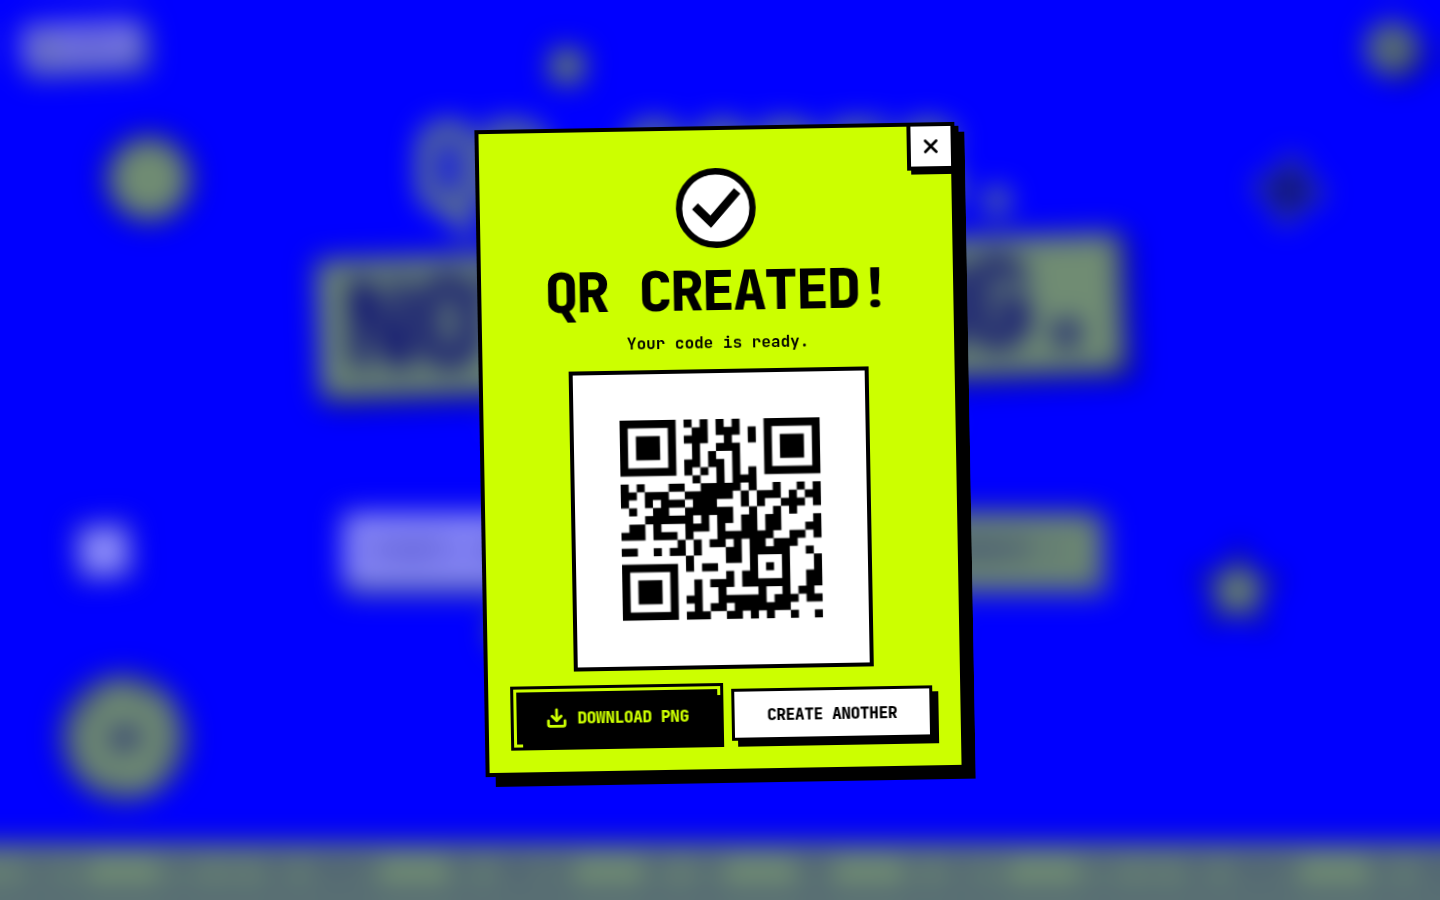
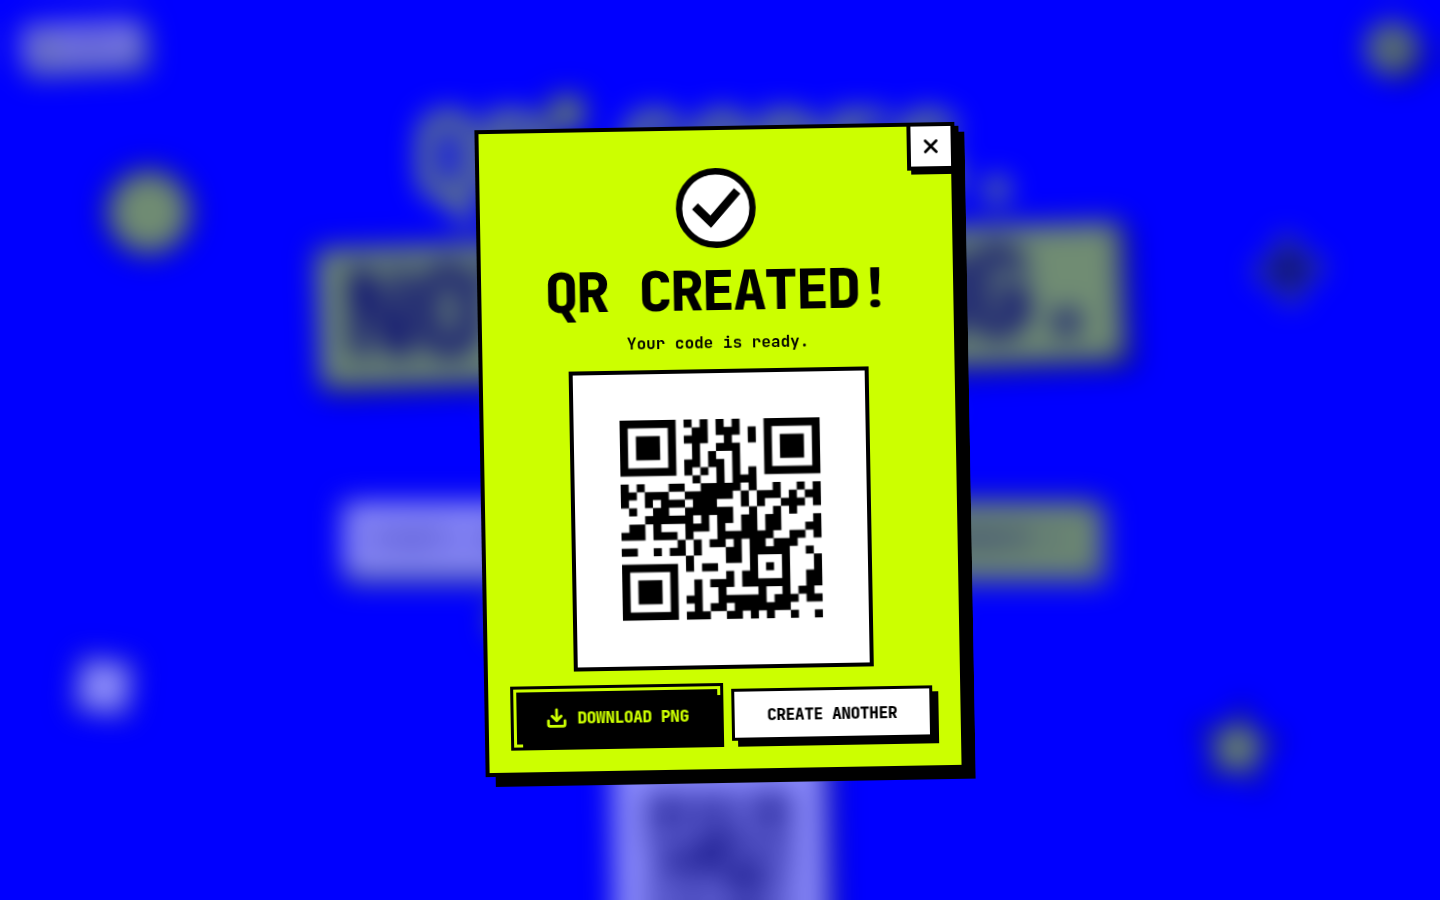
Add live QR previews on the page and in the settings drawer.
The preview redraws as you type and as style settings change, and the
gitignore now covers Vercel and env files.

diff --git a/src/App.jsx b/src/App.jsx
@@ -9,6 +9,7 @@ import SettingsDrawer from './components/SettingsDrawer.jsx'
 import CreatingOverlay from './components/CreatingOverlay.jsx'
 import ResultModal from './components/ResultModal.jsx'
 import QRPreview from './components/QRPreview.jsx'
+import LivePreview from './components/LivePreview.jsx'
 import { EMPTY_FIELDS, QR_TYPES, buildPayload } from './utils/payloads.js'
 import { DEFAULT_SETTINGS } from './utils/settings.js'
 import { applyPreset, findPresetId } from './utils/presets.js'
@@ -178,6 +179,7 @@ export default function App() {
             inputRef={inputRef}
             generateRef={generateRef}
           />
+          {payload && <LivePreview payload={payload} typeLabel={typeLabel} settings={settings} />}
         </main>
         <Marquee />
         <SettingsButton buttonRef={settingsButtonRef} expanded={drawerOpen} onClick={() => setDrawerOpen(true)} />
@@ -194,6 +196,8 @@ export default function App() {
         onRestore={restoreEntry}
         onDelete={deleteEntry}
         onClear={clearRecent}
+        payload={payload}
+        typeLabel={typeLabel}
       />
 
       {phase === 'creating' && (

diff --git a/src/components/SettingsDrawer.jsx b/src/components/SettingsDrawer.jsx
@@ -3,6 +3,7 @@ import { X } from 'lucide-react'
 import StyleControls from './StyleControls.jsx'
 import PresetPicker from './PresetPicker.jsx'
 import RecentList from './RecentList.jsx'
+import LivePreview from './LivePreview.jsx'
 import useFocusTrap from '../hooks/useFocusTrap.js'
 import './SettingsDrawer.css'
 
@@ -17,6 +18,8 @@ export default function SettingsDrawer({
   onRestore,
   onDelete,
   onClear,
+  payload,
+  typeLabel,
 }) {
   const panelRef = useRef(null)
   useFocusTrap(panelRef, open, onClose)
@@ -39,6 +42,8 @@ export default function SettingsDrawer({
             <X size={24} strokeWidth={3} aria-hidden="true" />
           </button>
         </div>
+
+        <LivePreview compact payload={payload} typeLabel={typeLabel} settings={settings} />
 
         <section className="drawer-section" aria-labelledby="drawer-style">
           <h3 id="drawer-style">Style</h3>

diff --git a/src/components/LivePreview.jsx b/src/components/LivePreview.jsx
@@ -1,0 +1,20 @@
+import QRPreview from './QRPreview.jsx'
+import ScanWarnings from './ScanWarnings.jsx'
+import './LivePreview.css'
+
+// Same canvas component as the result modal, so what you see is what the PNG contains.
+export default function LivePreview({ payload, typeLabel, settings, compact = false }) {
+  return (
+    <figure className={compact ? 'live live-compact' : 'live'}>
+      <figcaption className="live-label">Live preview</figcaption>
+      {payload ? (
+        <QRPreview payload={payload} typeLabel={typeLabel} settings={settings} />
+      ) : (
+        <div className="qr-empty" role="status">
+          Enter valid content to see your QR code
+        </div>
+      )}
+      {payload ? <ScanWarnings settings={settings} payloadLength={payload.length} /> : null}
+    </figure>
+  )
+}

diff --git a/src/components/LivePreview.css b/src/components/LivePreview.css
@@ -1,0 +1,37 @@
+.live {
+  display: grid;
+  gap: 10px;
+  width: min(100%, 220px);
+  margin: 0;
+  padding: 12px;
+  border: var(--border);
+  background: var(--white);
+  color: var(--black);
+  box-shadow: var(--sh) var(--sh) 0 var(--black);
+  transform: rotate(-1deg);
+  animation: fade-in 200ms ease-out both;
+}
+
+.live-compact {
+  width: min(100%, 168px);
+  justify-self: center;
+  transform: none;
+}
+
+.live-compact .qr-empty {
+  min-height: 112px;
+  font-size: 0.75rem;
+}
+
+.live-label {
+  font-size: 0.75rem;
+  font-weight: 800;
+  letter-spacing: -0.02em;
+  text-transform: uppercase;
+}
+
+@media (prefers-reduced-motion: reduce) {
+  .live {
+    animation: none;
+  }
+}

diff --git a/TESTING.md b/TESTING.md
@@ -4,6 +4,7 @@ Run `npm run dev` and open the site. Check these in a desktop window and again a
 
 ## Main flow
 
+- [ ] Type `example.com`. A live preview appears under the chips and updates on every keystroke. Clearing the input removes it.
 - [ ] Type `example.com`, press Generate (or Enter). The button says "Creating..." and a loader with filling squares appears over a blurred page for about 1.3 seconds.
 - [ ] The result modal pops in with a drawing checkmark, "QR created!", the QR code on a white card, and confetti. The page behind is blurred and tinted blue.
 - [ ] Download PNG saves `qr-url-<date>-<time>.png`. Its pixel size matches the Size setting, including on a high-density screen.
@@ -28,16 +29,17 @@ Run `npm run dev` and open the site. Check these in a desktop window and again a
 - [ ] `#RGB` and `#RRGGBB` update the color. Anything else shows an error and the last valid color is kept.
 - [ ] L, M, Q and H are square toggles, and each changes the one-line explanation.
 - [ ] Each preset changes the colors, the level and the margin. Editing one of those afterwards sets the label to Custom. Changing the size does not.
-- [ ] Style changes show up in the next modal and in the downloaded file.
+- [ ] The small preview at the top of the drawer updates immediately when you change size, either color, error correction or margin. With no valid input it says "Enter valid content to see your QR code".
+- [ ] Style changes show up in both previews, in the next modal and in the downloaded file. Open the PNG: its pixel width and height equal the Size setting. Scan it with a phone; it opens the same content you typed.
 - [ ] An entry appears in Recent after each successful Generate. A Wi-Fi entry shows "password hidden". Clicking an entry restores the type, inputs and style and closes the drawer. Delete and Clear all work. The list survives a refresh.
 
 ## Warnings
 
-- [ ] The modal shows a note for contrast below 4:1 (stronger wording below 2:1), a lighter foreground than background, a size under 160 px, a margin under 4, and a payload over 200 characters at a size under 256. Download still works.
+- [ ] The live preview, the drawer preview and the modal show a note for contrast below 4:1 (stronger wording below 2:1), a lighter foreground than background, a size under 160 px, a margin under 4, and a payload over 200 characters at a size under 256. Download still works.
 
 ## Layout, motion, keyboard
 
-- [ ] At 360 px wide the page does not scroll sideways, the input and Generate button stack, the drawer is full width and the modal fits the screen.
+- [ ] At 360 px, 768 px and 1440 px wide the page does not scroll sideways, with and without a live preview. The input and Generate button stack on a phone, the drawer is full width under 600 px and the modal fits the screen.
 - [ ] Floating shapes are hidden under 480 px wide.
 - [ ] With "reduce motion" turned on in the system settings, the marquee, shapes, badge and confetti are still, and things fade instead of bouncing.
 - [ ] Every control shows a white focus ring on the blue page and a black one inside the drawer and modal. Buttons and chips are at least 44 px tall.

diff --git a/README.md b/README.md
@@ -25,6 +25,7 @@ npm run build
 ## Features
 
 - One screen: a headline, one big input with a Generate button, and chips for the type (URL, Text, Email, Phone, Wi-Fi). Email and Wi-Fi expand extra fields under the chips. Each type keeps its own inputs when you switch.
+- A live preview appears under the form as soon as the input is valid, and a smaller one sits at the top of the settings drawer. Both redraw as you type and as you change any setting.
 - Generate is greyed out until the input is valid. Clicking it early shakes the bar and says what is wrong.
 - Clicking Generate runs a short "creating" loader, then opens a result modal with the QR code, a Download PNG button and Create another. Close it with the X, Escape, or a click outside. Focus stays inside the modal and returns to Generate when it closes.
 - A settings drawer (the round button, top right) holds size (128 to 1024 px), foreground and background color, error correction (L, M, Q, H) and margin (0 to 10 modules), plus six presets and the recent list.
